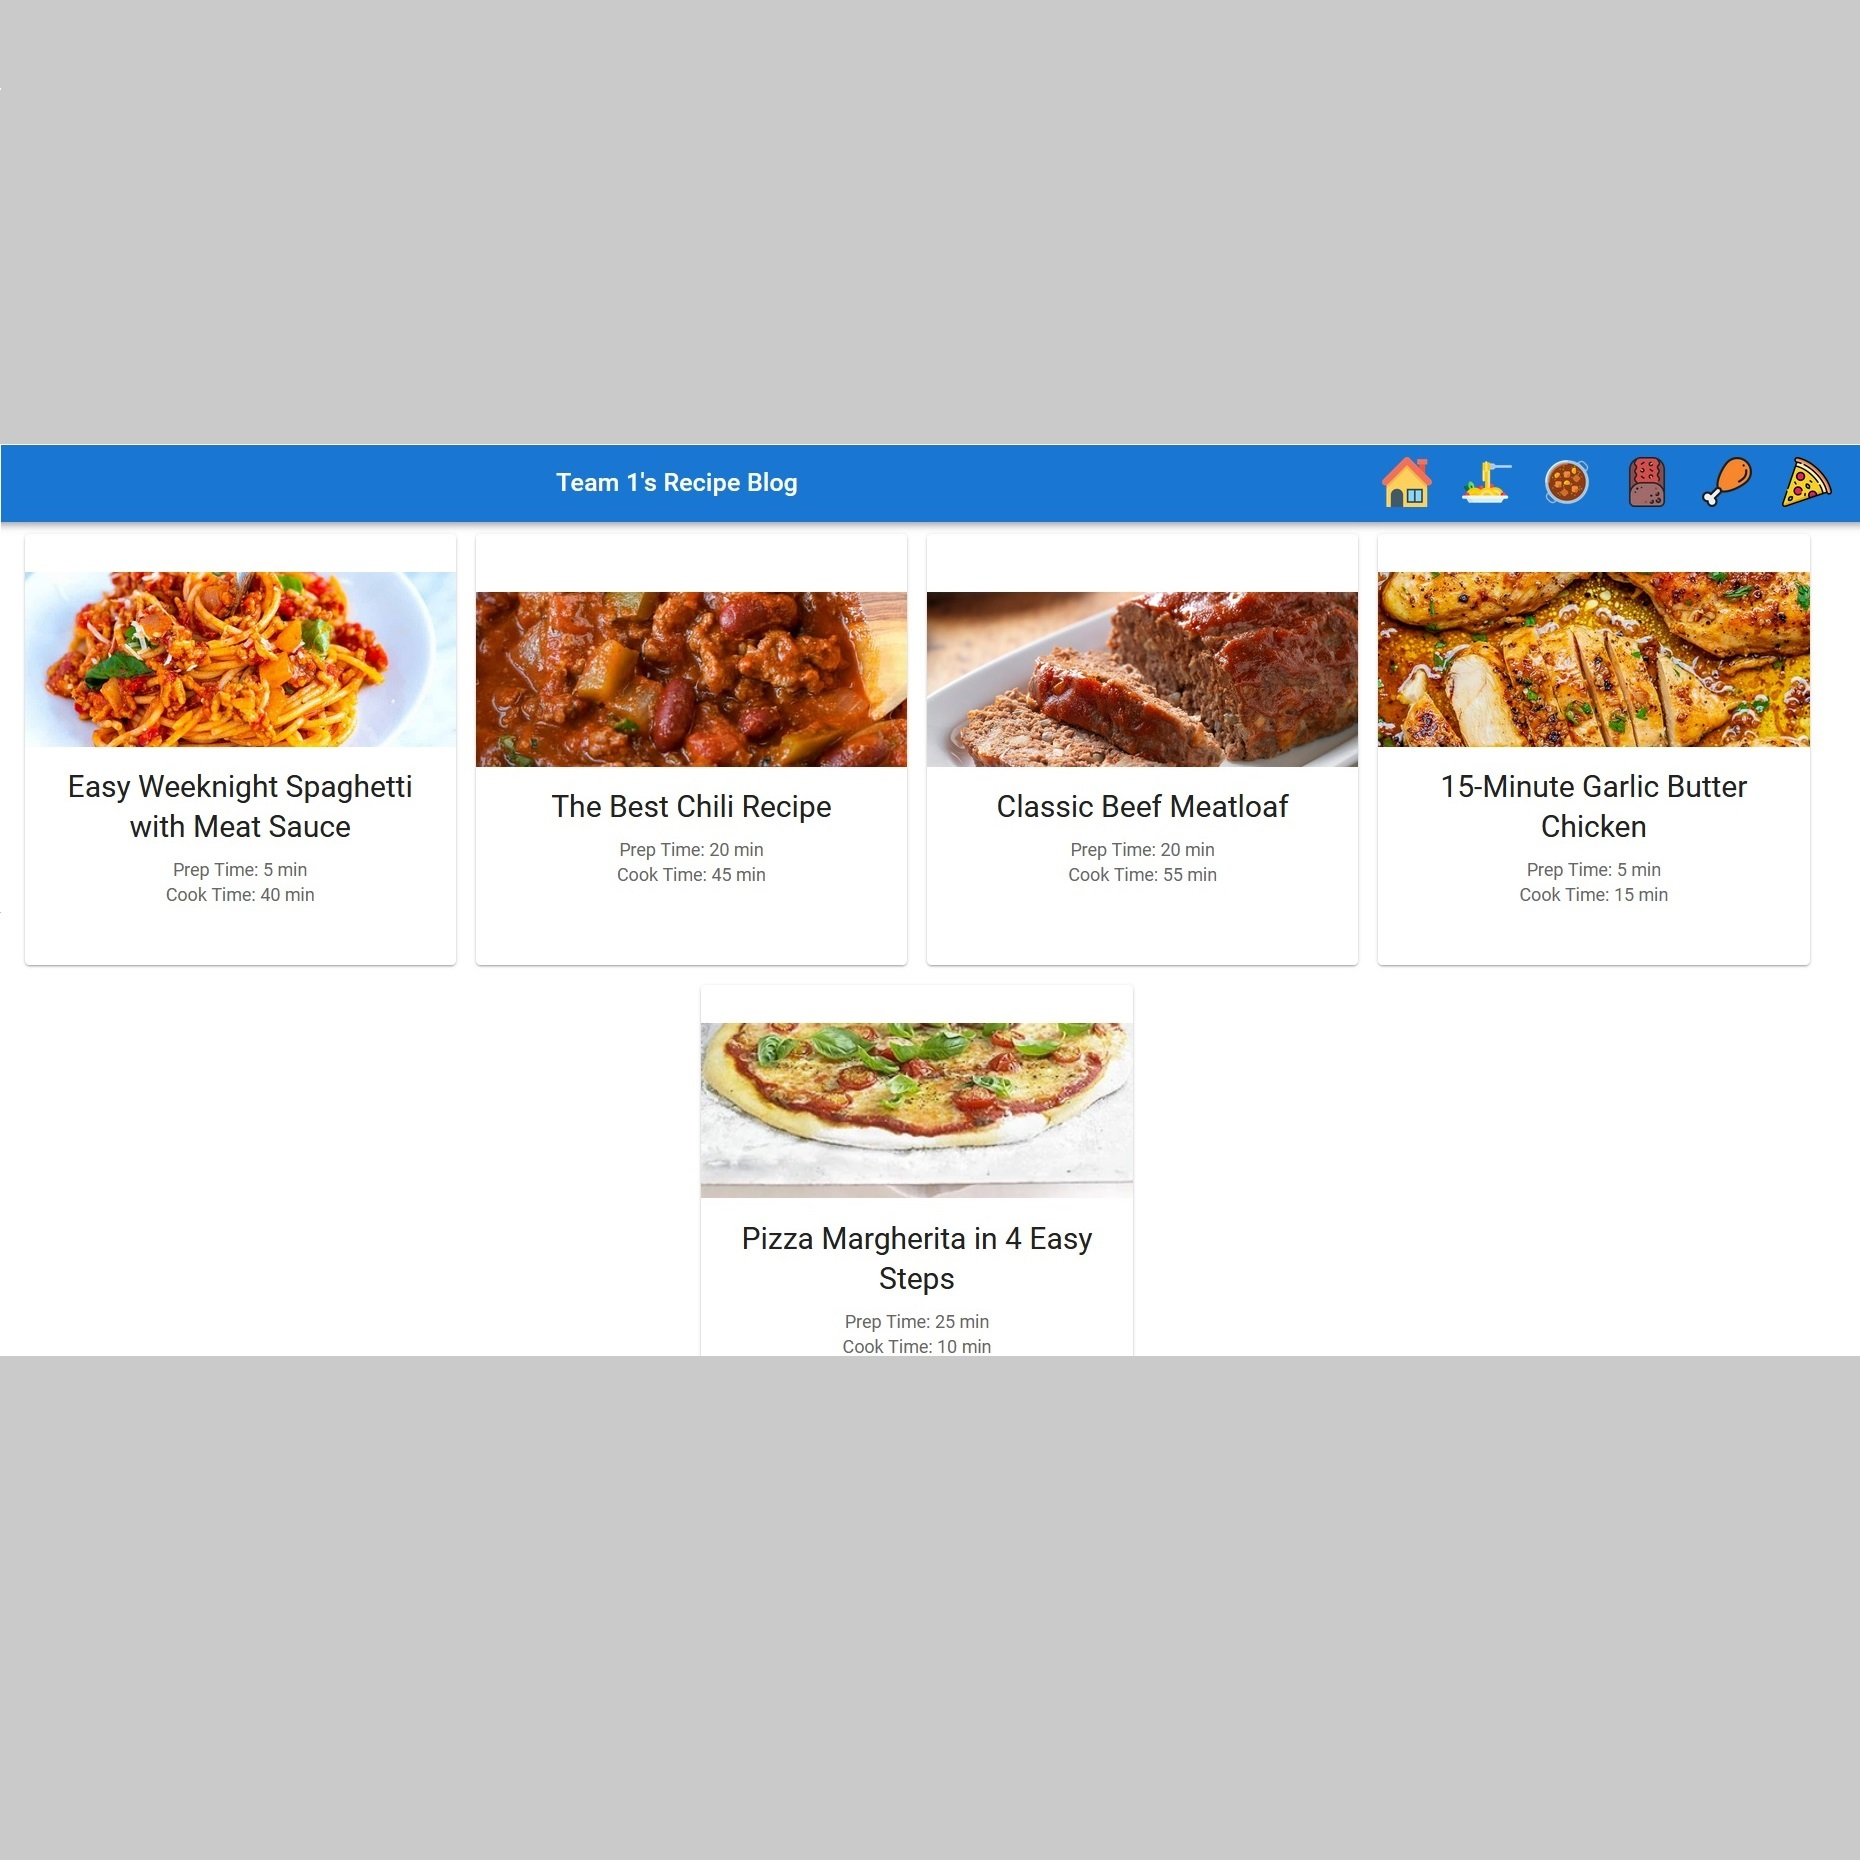
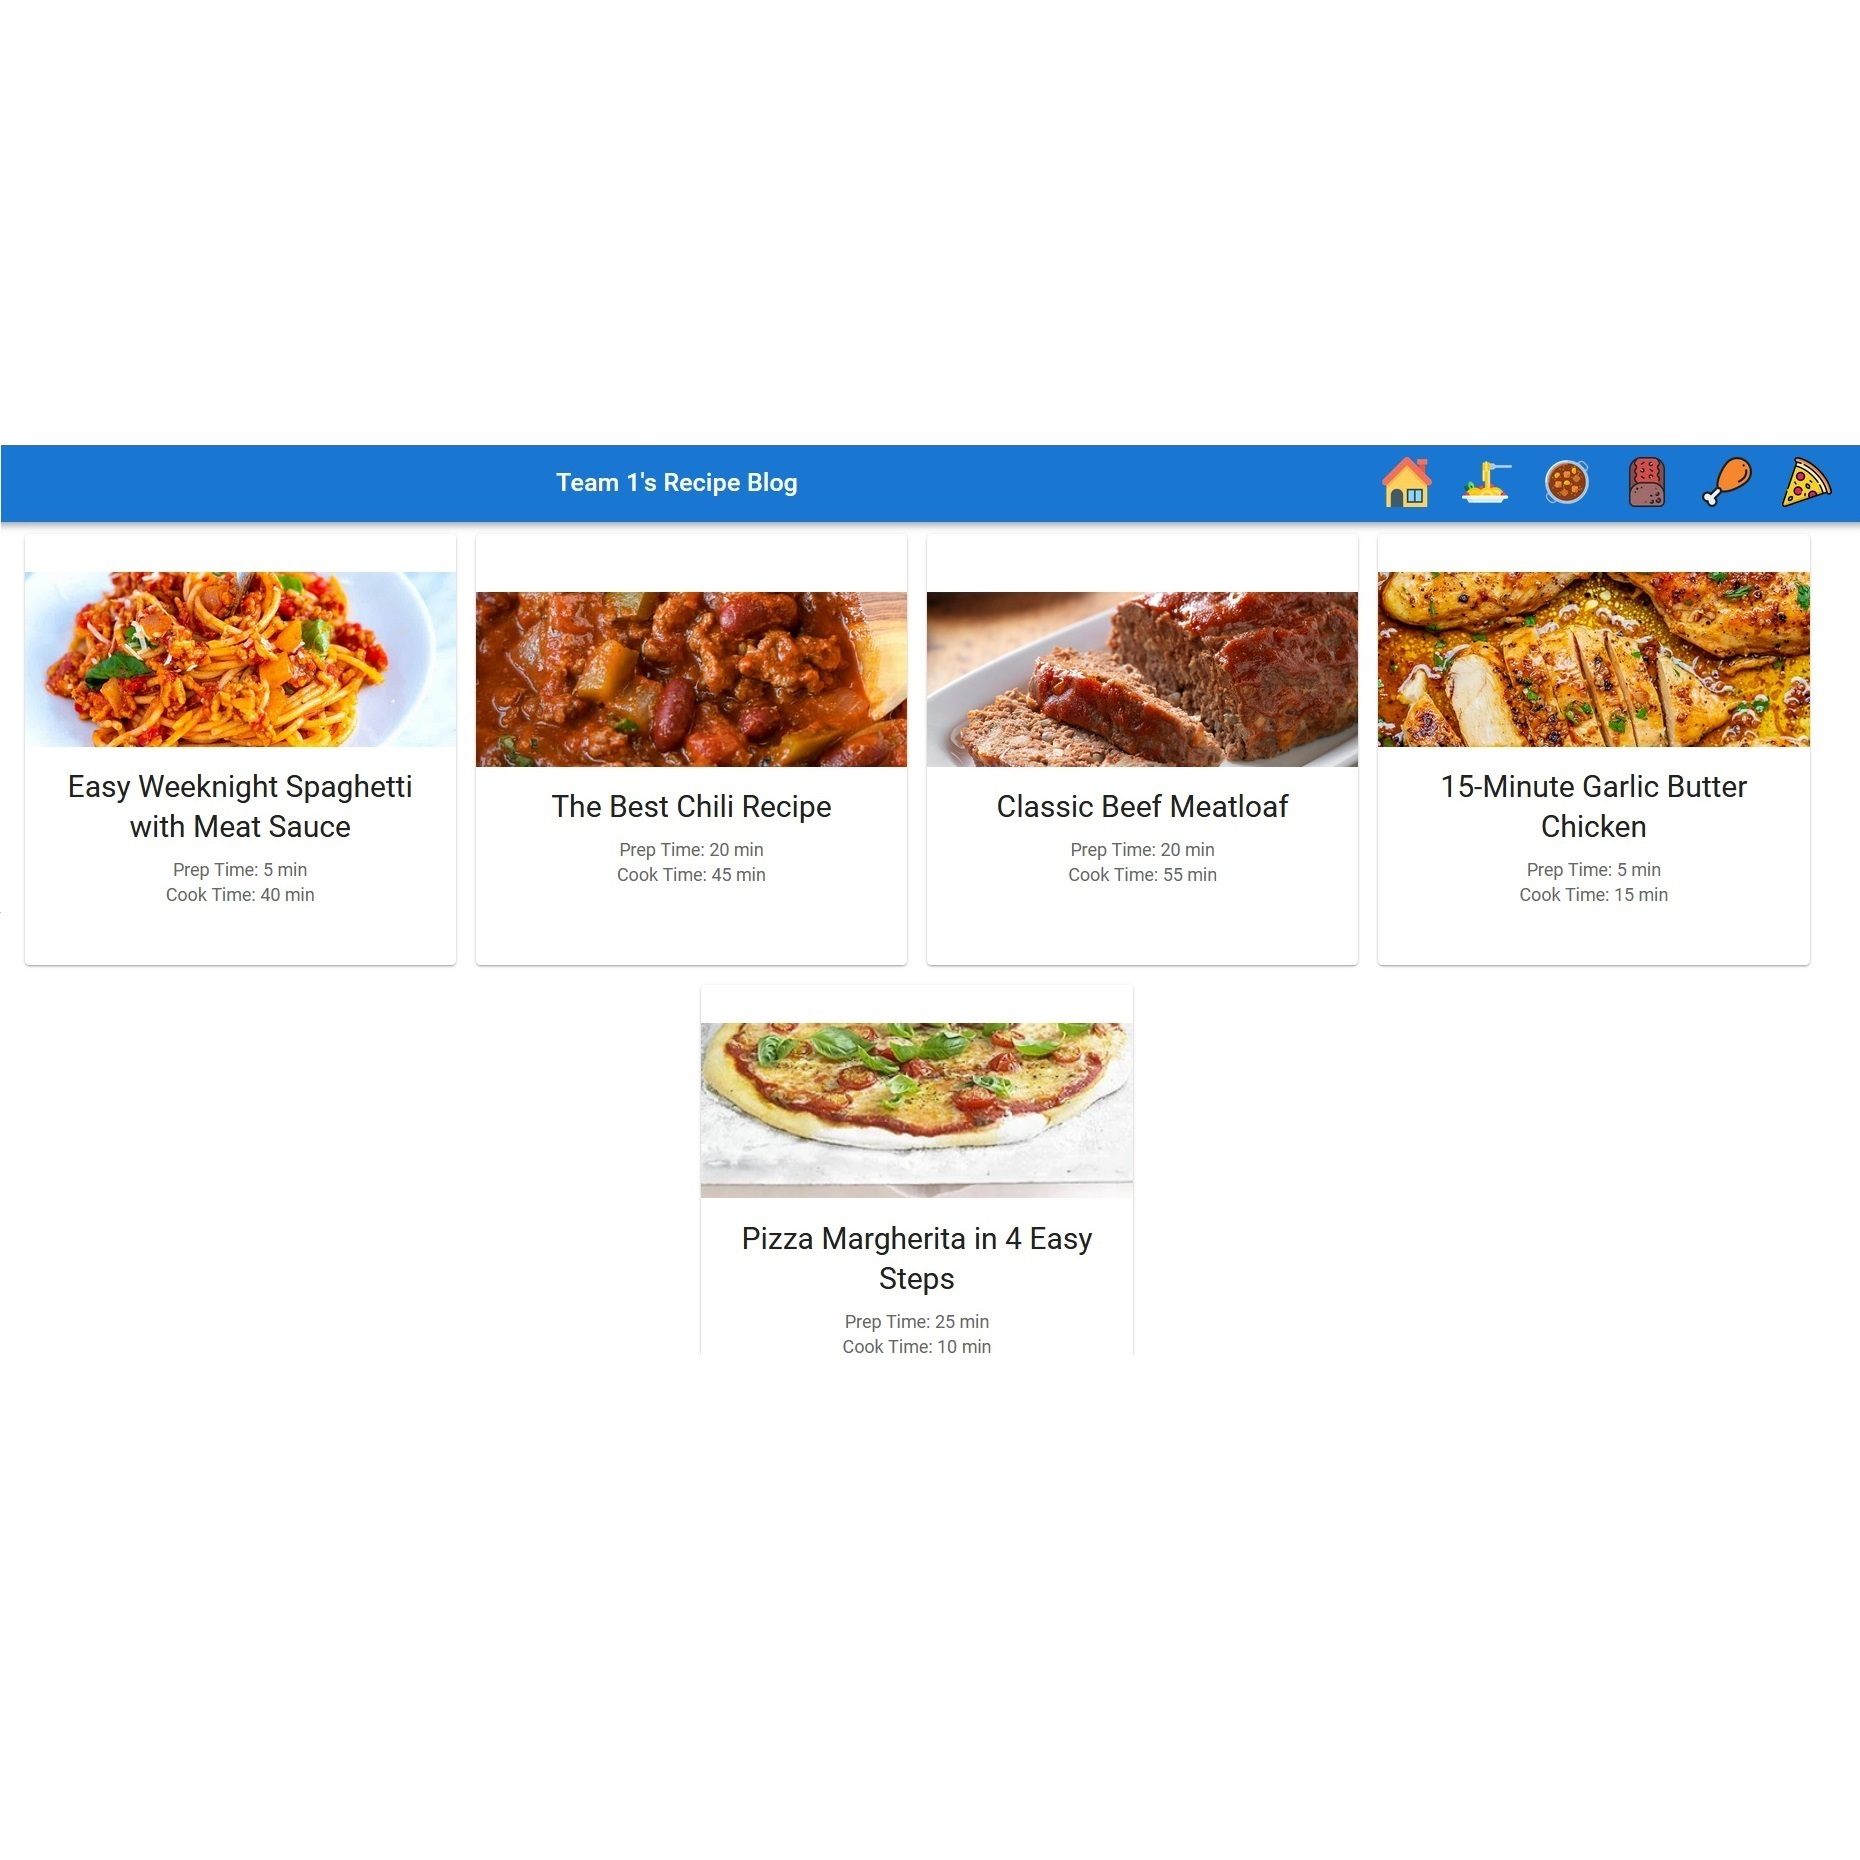
fixing some css and adding background images

diff --git a/src/App.css b/src/App.css
@@ -1,14 +1,17 @@
-@import url('https://fonts.googleapis.com/css2?family=Roboto+Slab:wght@400;700&display=swap');
+@import url('https://fonts.googleapis.com/css2?family=Roboto&display=swap');
 
 .background{
-  padding: 0px 40px 20px 40px;
-  background-color: rgb(240, 240, 241);
+  padding: 0px 0px 0px 0px;
+  
 }
 .tech-skills-container {
   display:flex;
   justify-content: center;
   flex-direction: column;
-  padding-top: 60px;
+  padding: 100px 0px 200px 0px;
+  background-image: url(./images/Background5.jpg);
+  background-repeat: no-repeat;
+  background-size: cover;
 }
 .techskill{
   margin-left: 2%;
@@ -22,17 +25,20 @@
 
 .techtitle{
   justify-content: center;
+  color:white;
+  text-shadow: 1px 0 0 #000, 0 -1px 0 #000, 0 1px 0 #000, -1px 0 0 #000;
+  padding:50px 0 100px 0;
 }
 .techtitle h3{
   width:fit-content;
   text-decoration: underline;
   font-weight: bold;
-  font-family: 'Roboto Slab', serif;
+  font-family: 'Roboto', sans-serif;
 }
 .card-title{
   display: flex;
   justify-content: center;
-  font-family: 'Roboto Slab', serif;
+  font-family: 'Roboto', sans-serif;
 }
 
 .card-img-top{
@@ -50,7 +56,7 @@
   width: 30%;
   max-width: 22rem;
   border-radius: 4px;
-  background: #cacaca;
+  background: white;
   box-shadow: 0 6px 10px rgba(0,0,0,.08), 0 0 6px rgba(0,0,0,.05);
   transition: .3s transform cubic-bezier(.155,1.105,.295,1.12),.3s box-shadow,.3s -webkit-transform cubic-bezier(.155,1.105,.295,1.12);
   cursor: pointer;
@@ -62,7 +68,7 @@
 }
 .card-text{
   text-align:center;
-  font-family: 'Roboto Slab', serif;
+  font-family: 'Roboto', sans-serif;
 }
 .card-body{
   min-height: 200px;
@@ -73,7 +79,13 @@
   justify-content: center;
   flex-direction: row;
   flex-wrap: wrap;
-  padding-top:70px;
+ 
+  padding: 200px 40px 200px 40px;
+  background-image: url(./images/Background1.jpg);
+  background-repeat: no-repeat;
+  background-size: cover;
+  color:white;
+  text-shadow: 1px 0 0 #000, 0 -1px 0 #000, 0 1px 0 #000, -1px 0 0 #000;
 }
 .profilepic-and-badges{
   align-self: center;
@@ -91,7 +103,7 @@
   justify-content: center;
 }
 .github a {
-  color:rgb(23, 21, 21);
+  color:rgb(255, 255, 255);
   display: flex;
   justify-content: center;
 }
@@ -106,36 +118,38 @@
   justify-content: center;
   display: flex;
   flex-direction: column;
-  font-family: 'Roboto Slab', serif;
+  font-family: 'Roboto', sans-serif;
 }
 .intro-text h5{
   margin-bottom:24px;
-  font-family: 'Roboto Slab', serif;
+  font-family: 'Roboto', sans-serif;
 }
 
 @media (max-width:992px) and (min-width:0) {
   .intro-text h5{
     text-align: center;
-    font-family: 'Roboto Slab', serif;
+    font-family: 'Roboto', sans-serif;
   }
 }
 .projecttitle{
   justify-content: center;
+  padding:50px 0 100px 0;
 }
 .projecttitle h3{
   width:fit-content;
   text-decoration: underline;
   font-weight: bold;
-  font-family: 'Roboto Slab', serif;
+  font-family: 'Roboto', sans-serif;
 }
 .contacttitle{
   justify-content: center;
+  padding:50px 0 100px 0;
 }
 .contacttitle h3{
   width:fit-content;
   text-decoration: underline;
   font-weight: bold;
-  font-family: 'Roboto Slab', serif;
+  font-family: 'Roboto', sans-serif;
 }
 
 .nav-options{
@@ -143,39 +157,58 @@
   justify-content: space-evenly;
 }
 
+.nav-link{
+  color:white;
+}
+
+.navbar-toggler{
+  margin-right:20px;
+}
 .navbar-collapse{
   justify-content: flex-end;
   margin-right: 20px;
-  font-family: 'Roboto Slab', serif;
+  font-family: 'Roboto', sans-serif;
+  padding-left:20px;
 }
 
 .navbar-brand{
   margin-left: 20px;
-  font-family: 'Roboto Slab', serif;
+  font-family: 'Roboto', sans-serif;
 }
 
 .my-projects-div{
-  padding-top:60px;
+  background-image: url(./images/Background4.jpg);
+  background-repeat: no-repeat;
+  background-size: cover;
+  color:white;
+  text-shadow: 1px 0 0 #000, 0 -1px 0 #000, 0 1px 0 #000, -1px 0 0 #000;
+  padding: 100px 0px 200px 0px;
 }
 .contact-me-div{
-  padding-top:60px;
+  background-image: url(./images/Background7.jpg);
+  background-repeat: no-repeat;
+  background-size: cover;
+  color:white;
+  text-shadow: 1px 0 0 #000, 0 -1px 0 #000, 0 1px 0 #000, -1px 0 0 #000;
+  padding: 100px 0px 200px 0px;
 }
 .contact-me-text{
   margin: 0px 20px 0px 20px;
-  font-family: 'Roboto Slab', serif;
+  font-family: 'Roboto', sans-serif;
 }
 .project-container{
   display:flex;
   justify-content: space-evenly;
   flex-wrap: wrap;
+  
 }
 .accordion{
   min-width: 40%;
   max-width: 22rem;
   margin-top: 10px;
-  font-family: 'Roboto Slab', serif;
-  background-color: #cacaca;
-  --bs-accordion-bg: #cacaca;
+  font-family: 'Roboto', sans-serif;
+  background-color: white;
+  --bs-accordion-bg:white;
 }
 .code-buttons{
   display:flex;
@@ -194,5 +227,9 @@ figure{
 }
 .project-header{
   width:100%;
-  font-family: 'Roboto Slab', serif;
+  font-family: 'Roboto', sans-serif;
+}
+.figure-caption{
+  padding-top:20px;
+  padding-bottom:40px;
 }

diff --git a/src/App.js b/src/App.js
@@ -11,6 +11,8 @@ import { FontAwesomeIcon } from "@fortawesome/react-fontawesome";
 import { faGithub } from "@fortawesome/free-brands-svg-icons";
 import { faLinkedin } from "@fortawesome/free-brands-svg-icons";
 import { faEnvelope } from "@fortawesome/free-solid-svg-icons";
+import { faSquare } from "@fortawesome/free-solid-svg-icons";
+import { faCircle } from "@fortawesome/free-solid-svg-icons";
 
 import HTML from "./images/html-5.svg";
 import Javascript from "./images/javascript.svg";
@@ -72,7 +74,10 @@ function App() {
                     target="_blank"
                     href="https://www.linkedin.com/in/ebro1230/"
                   >
-                    <FontAwesomeIcon icon={faLinkedin} />
+                    <span className="fa-layers fa-fw">
+                      <FontAwesomeIcon icon={faSquare} color="white" />
+                      <FontAwesomeIcon icon={faLinkedin} />
+                    </span>
                   </a>{" "}
                 </Col>
                 <Col className="email">
